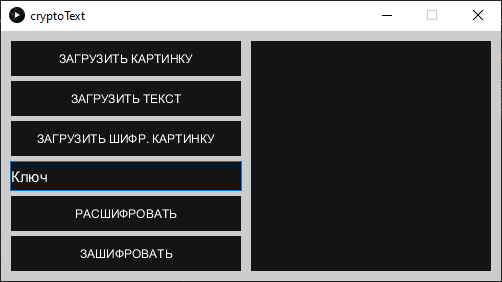
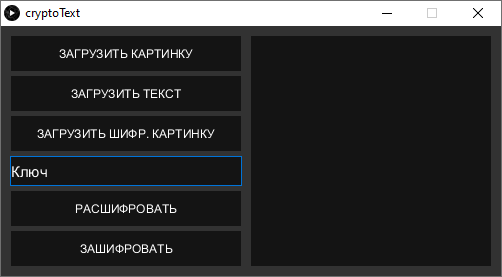
Тёмная тема

Changed region(s): [[0.0, 0.0, 1.0, 1.0], [0.1494, 0.8664, 0.3586, 0.9242]]

diff --git a/readme.md b/readme.md
@@ -1,9 +1,10 @@
+![1](/1.png)
 # **CryptoText by AlexGyver...**
 ... С модом от Anton1onc)))
-![1](/1.png)
 ### Ченджлог:
-- [ ] Придумать иконку. Варианты в телегу @anton165. Либо ждать её в офф релизе
+- [ ] Придумать иконку. Варианты в телегу @anton165. Либо ждать её в офф релизе.
+- [x] Полный перевод на русский.
 - [X] Увеличить окно для улучшения читаймости русского шрифта.
-- [x] Хоть как то сделать перевод на кнопках.
-- [x] Смена цветовой схемы на более читаймую.
-- [x] Перевод ошибок и начального текста.
+- [x] Убрать мусор.
+- [x] Полная тёмная тема.
+- [x] Немного улучшить читаймость кода.
